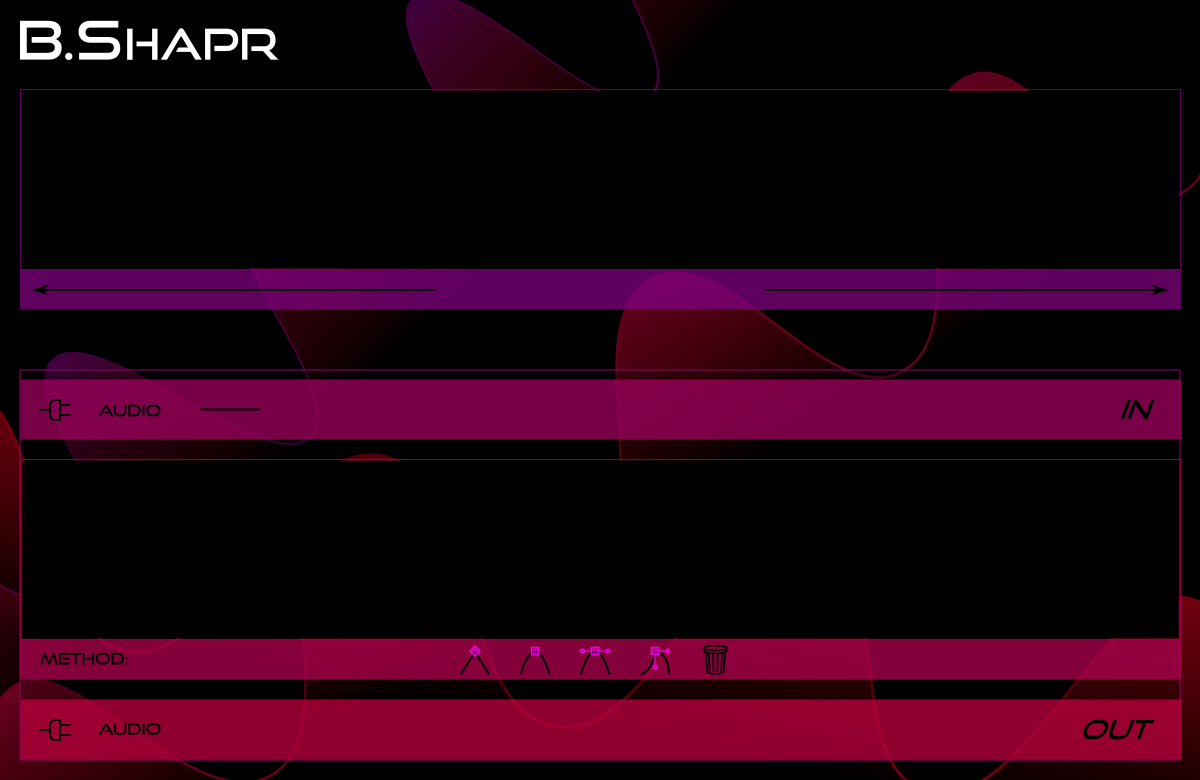
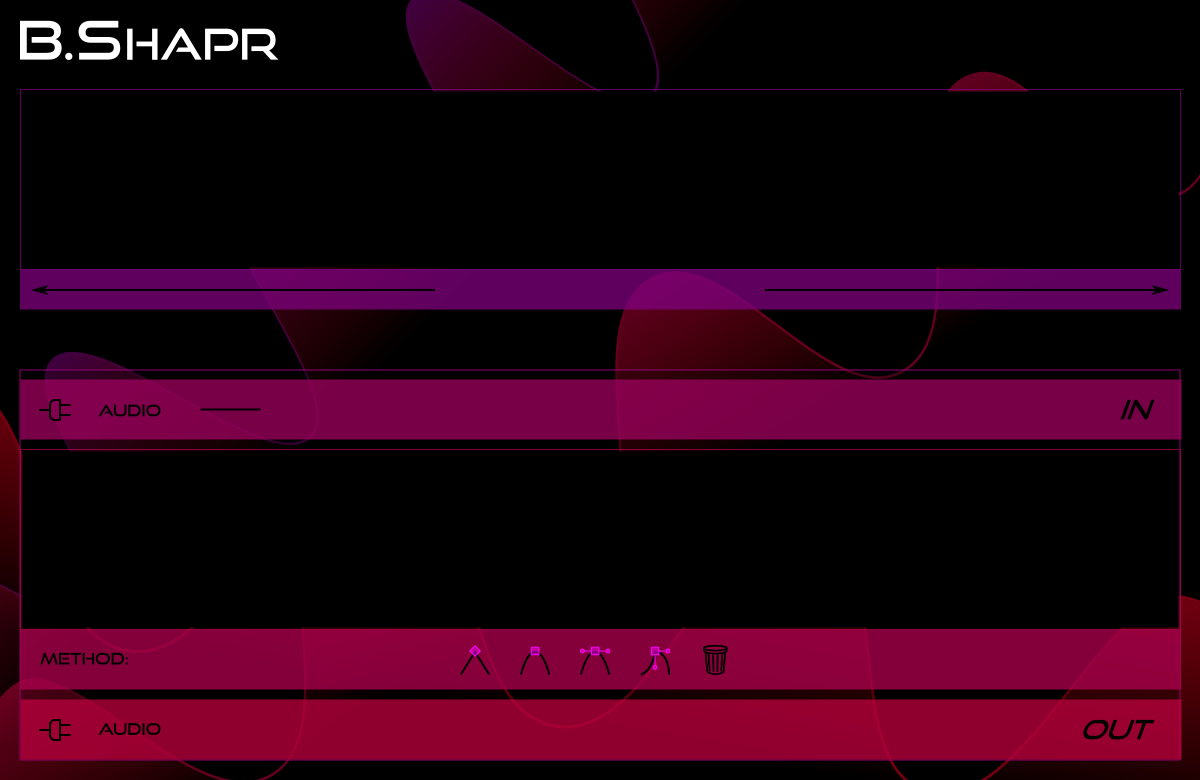
Dry / wet added
* Added a dry / wet control port for each shape
* Ports renumbered
* Dry / wet mixing implemented
* Background image changed to get space for an additional dial
* dry / wet dial added
* GUI widget positions harmonized
* Bugfix: Resize for small displays
* Readme updated

diff --git a/src/BShaprGUI.cpp b/src/BShaprGUI.cpp
@@ -50,7 +50,7 @@ BShaprGUI::BShaprGUI (const char *bundlePath, const LV2_Feature *const *features
 		}
 
 		shapeGui[i].inputSelect = SelectWidget (60, 20, 200 + i * 100, 40, "tool", 100, 40, 2 + i, 1);
-		shapeGui[i].inputAmpDial = BWidgets::DisplayDial (1000, 14, 50, 56, "dial", 1.0, -1.0, 1.0, 0, "%1.3f");
+		shapeGui[i].inputAmpDial = BWidgets::DisplayDial (920, 14, 50, 56, "dial", 1.0, -1.0, 1.0, 0, "%1.3f");
 		shapeGui[i].targetListBox = BWidgets::PopupListBox (120, 280, 180, 20, 0, -220, 180, 220, "menu",
 															{{0, "Level"},
 															 {5, "Gain"},
@@ -62,11 +62,13 @@ BShaprGUI::BShaprGUI (const char *bundlePath, const LV2_Feature *const *features
 														 	 {7, "High pass filter (log)"},
 														 	 {8, "Pitch"},
 														 	 {9, "Delay"}});
-		shapeGui[i].shapeWidget = ShapeWidget (4, 94, 1152, 172, "shape");
-		shapeGui[i].toolSelect = SelectWidget (437, 272, 276, 36, "tool", 36, 36, 5, 1);
+		shapeGui[i].shapeWidget = ShapeWidget (4, 84, 1152, 172, "shape");
+		shapeGui[i].toolSelect = SelectWidget (433, 268, 284, 44, "tool", 44, 44, 5, 1);
+		shapeGui[i].drywetLabel = BWidgets::Label (920, 304, 50, 16, "smlabel", "dry/wet");
+		shapeGui[i].drywetDial = BWidgets::Dial (920, 264, 50, 50, "dial", 1.0, 0.0, 1.0, 0);
 		shapeGui[i].shapeLabelIcon = BWidgets::ImageIcon (1000, 280, 160, 20, "widget", pluginPath + "Shape" + std::to_string (i + 1) + ".png");
 		shapeGui[i].outputSelect = SelectWidget (60, 340, 100, 40, "tool", 100, 40, 1, 1);
-		shapeGui[i].outputAmpDial = BWidgets::DisplayDial (1000, 334, 50, 56, "dial", 1.0, 0.0, 1.0, 0, "%1.3f");
+		shapeGui[i].outputAmpDial = BWidgets::DisplayDial (920, 334, 50, 56, "dial", 1.0, 0.0, 1.0, 0, "%1.3f");
 
 		shapeGui[i].shapeContainer.rename ("widget");
 		shapeGui[i].tabIcon.rename ("tab");
@@ -75,6 +77,8 @@ BShaprGUI::BShaprGUI (const char *bundlePath, const LV2_Feature *const *features
 		shapeGui[i].targetListBox.rename ("menu");
 		shapeGui[i].shapeWidget.rename ("shape");
 		shapeGui[i].toolSelect.rename ("tool");
+		shapeGui[i].drywetLabel.rename ("smlabel");
+		shapeGui[i].drywetDial.rename ("dial");
 		shapeGui[i].shapeLabelIcon.rename ("widget");
 		shapeGui[i].outputSelect.rename ("tool");
 		shapeGui[i].outputAmpDial.rename ("dial");
@@ -96,6 +100,7 @@ BShaprGUI::BShaprGUI (const char *bundlePath, const LV2_Feature *const *features
 		controllerWidgets[SHAPERS + i * SH_SIZE + SH_INPUT] = (BWidgets::ValueWidget*) &shapeGui[i].inputSelect;
 		controllerWidgets[SHAPERS + i * SH_SIZE + SH_INPUT_AMP] = (BWidgets::ValueWidget*) &shapeGui[i].inputAmpDial;
 		controllerWidgets[SHAPERS + i * SH_SIZE + SH_TARGET] = (BWidgets::ValueWidget*) &shapeGui[i].targetListBox;
+		controllerWidgets[SHAPERS + i * SH_SIZE + SH_DRY_WET] = (BWidgets::ValueWidget*) &shapeGui[i].drywetDial;
 		controllerWidgets[SHAPERS + i * SH_SIZE + SH_OUTPUT] = (BWidgets::ValueWidget*) &shapeGui[i].outputSelect;
 		controllerWidgets[SHAPERS + i * SH_SIZE + SH_OUTPUT_AMP] = (BWidgets::ValueWidget*) &shapeGui[i].outputAmpDial;
 	}
@@ -110,6 +115,7 @@ BShaprGUI::BShaprGUI (const char *bundlePath, const LV2_Feature *const *features
 		shapeGui[i].inputSelect.setCallbackFunction (BEvents::EventType::VALUE_CHANGED_EVENT, BShaprGUI::valueChangedCallback);
 		shapeGui[i].inputAmpDial.setCallbackFunction (BEvents::EventType::VALUE_CHANGED_EVENT, BShaprGUI::valueChangedCallback);
 		shapeGui[i].targetListBox.setCallbackFunction (BEvents::EventType::VALUE_CHANGED_EVENT, BShaprGUI::valueChangedCallback);
+		shapeGui[i].drywetDial.setCallbackFunction (BEvents::EventType::VALUE_CHANGED_EVENT, BShaprGUI::valueChangedCallback);
 		shapeGui[i].outputSelect.setCallbackFunction (BEvents::EventType::VALUE_CHANGED_EVENT, BShaprGUI::valueChangedCallback);
 		shapeGui[i].outputAmpDial.setCallbackFunction (BEvents::EventType::VALUE_CHANGED_EVENT, BShaprGUI::valueChangedCallback);
 		shapeGui[i].shapeWidget.setCallbackFunction (BEvents::EventType::VALUE_CHANGED_EVENT, BShaprGUI::shapeChangedCallback);
@@ -129,10 +135,9 @@ BShaprGUI::BShaprGUI (const char *bundlePath, const LV2_Feature *const *features
 		shapeGui[i].shapeWidget.setHigherLimit (methodLimits[0].max);
 		shapeGui[i].inputAmpDial.setScrollable (true);
 		shapeGui[i].inputAmpDial.setHardChangeable (false);
-		//shapeGui[i].inputAmpDial.hide ();
+		shapeGui[i].drywetDial.setHardChangeable (false);
 		shapeGui[i].outputAmpDial.setScrollable (true);
 		shapeGui[i].outputAmpDial.setHardChangeable (false);
-		//shapeGui[i].outputAmpDial.hide ();
 		if (i >= 1) shapeGui[i].shapeContainer.hide();
 	}
 	applyChildThemes ();
@@ -148,6 +153,8 @@ BShaprGUI::BShaprGUI (const char *bundlePath, const LV2_Feature *const *features
 		shapeGui[i].shapeContainer.add (shapeGui[i].inputSelect);
 		shapeGui[i].shapeContainer.add (shapeGui[i].inputAmpDial);
 		shapeGui[i].shapeContainer.add (shapeGui[i].targetListBox);
+		shapeGui[i].shapeContainer.add (shapeGui[i].drywetLabel);
+		shapeGui[i].shapeContainer.add (shapeGui[i].drywetDial);
 		shapeGui[i].shapeContainer.add (shapeGui[i].shapeWidget);
 		shapeGui[i].shapeContainer.add (shapeGui[i].toolSelect);
 		shapeGui[i].shapeContainer.add (shapeGui[i].shapeLabelIcon);
@@ -321,6 +328,7 @@ void BShaprGUI::resizeGUI()
 
 	// Resize Fonts
 	defaultFont.setFontSize (12 * sz);
+	smFont.setFontSize (10 * sz);
 	lfLabelFont.setFontSize (12 * sz);
 
 	// Resize widgets
@@ -343,17 +351,19 @@ void BShaprGUI::resizeGUI()
 
 		RESIZE (shapeGui[i].inputSelect, 60, 20, 200 + i * 100, 40, sz);
 		shapeGui[i].inputSelect.resizeSelection (100 * sz, 40 * sz);
-		RESIZE (shapeGui[i].inputAmpDial, 1000, 14, 50, 56, sz);
+		RESIZE (shapeGui[i].inputAmpDial, 920, 14, 50, 56, sz);
 		RESIZE (shapeGui[i].targetListBox, 120, 280, 180, 20, sz);
 		shapeGui[i].targetListBox.resizeListBox (180 * sz, 220 * sz);
 		shapeGui[i].targetListBox.moveListBox (0, -220 * sz);
-		RESIZE (shapeGui[i].shapeWidget, 4, 94, 1152, 172, sz);
-		RESIZE (shapeGui[i].toolSelect, 437, 272, 276, 36, sz);
-		shapeGui[i].toolSelect.resizeSelection (36 * sz, 36 * sz);
+		RESIZE (shapeGui[i].drywetLabel, 920, 304, 50, 16, sz);
+		RESIZE (shapeGui[i].drywetDial, 920, 264, 50, 50, sz);
+		RESIZE (shapeGui[i].shapeWidget, 4, 84, 1152, 172, sz);
+		RESIZE (shapeGui[i].toolSelect, 433, 268, 284, 44, sz);
+		shapeGui[i].toolSelect.resizeSelection (44 * sz, 44 * sz);
 		RESIZE (shapeGui[i].shapeLabelIcon, 1000, 280, 160, 20, sz);
 		RESIZE (shapeGui[i].outputSelect, 60, 340, 100, 40, sz);
 		shapeGui[i].outputSelect.resizeSelection (100 * sz, 40 * sz);
-		RESIZE (shapeGui[i].outputAmpDial, 1000, 334, 50, 56, sz);
+		RESIZE (shapeGui[i].outputAmpDial, 920, 334, 50, 56, sz);
 	}
 
 	// Update monitor, const std::string& name
@@ -382,6 +392,9 @@ void BShaprGUI::applyChildThemes ()
 		shapeGui[i].inputAmpDial.applyTheme (theme);
 		shapeGui[i].inputAmpDial.getDisplayLabel()->setTextColors (lbColors);
 		shapeGui[i].targetListBox.applyTheme (theme);
+		shapeGui[i].drywetLabel.applyTheme (theme);
+		shapeGui[i].drywetLabel.setTextColors (lbColors);
+		shapeGui[i].drywetDial.applyTheme (theme);
 		shapeGui[i].shapeWidget.applyTheme (theme);
 		shapeGui[i].toolSelect.applyTheme (theme);
 		shapeGui[i].shapeLabelIcon.applyTheme (theme);
@@ -868,10 +881,8 @@ LV2UI_Handle instantiate (const LV2UI_Descriptor *descriptor, const char *plugin
 	int screenHeight = getScreenHeight ();
 	if ((screenWidth < 1240) || (screenHeight < 800)) sz = 0.66;
 	if ((screenWidth < 840) || (screenHeight < 530)) sz = 0.50;
-	std::cerr << "BShapr_GUI.lv2 screen size " << screenWidth << " x " << screenHeight <<
-			". Set GUI size to " << 1200 * sz << " x " << 780 * sz << ".\n";
 
-	if (resize) resize->ui_resize (resize->handle, 1200, 780);
+	if (resize) resize->ui_resize (resize->handle, 1200 * sz, 780 * sz);
 
 	*widget = (LV2UI_Widget) puglGetNativeWindow (ui->getPuglView ());
 	ui->sendGuiOn();

diff --git a/src/BShaprGUI.hpp b/src/BShaprGUI.hpp
@@ -37,6 +37,8 @@
 #include "BWidgets/FocusWidget.hpp"
 #include "BWidgets/RangeWidget.hpp"
 #include "BWidgets/ImageIcon.hpp"
+#include "BWidgets/Label.hpp"
+#include "BWidgets/Dial.hpp"
 #include "BWidgets/DisplayDial.hpp"
 #include "BWidgets/PopupListBox.hpp"
 #include "ShapeWidget.hpp"
@@ -141,6 +143,8 @@ private:
 		BWidgets::DisplayDial inputAmpDial;
 		BWidgets::DisplayDial outputAmpDial;
 		BWidgets::PopupListBox targetListBox;
+		BWidgets::Label drywetLabel;
+		BWidgets::Dial drywetDial;
 		ShapeWidget shapeWidget;
 		SelectWidget toolSelect;
 		SelectWidget outputSelect;
@@ -190,9 +194,11 @@ private:
 	BStyles::Fill tabBg = BStyles::Fill (BColors::Color (0.5625, 0, 0.4375, 0.375));
 	BStyles::Fill activeTabBg = BStyles::Fill (BColors::Color (0.5625, 0, 0.4375, 0.75));
 	BStyles::Font defaultFont = BStyles::Font ("Sans", CAIRO_FONT_SLANT_NORMAL, CAIRO_FONT_WEIGHT_NORMAL, 12.0,
-										       BStyles::TEXT_ALIGN_CENTER, BStyles::TEXT_VALIGN_MIDDLE);
+										       									 BStyles::TEXT_ALIGN_CENTER, BStyles::TEXT_VALIGN_MIDDLE);
+ 	BStyles::Font smFont = BStyles::Font ("Sans", CAIRO_FONT_SLANT_NORMAL, CAIRO_FONT_WEIGHT_NORMAL, 10.0,
+ 										       									 BStyles::TEXT_ALIGN_CENTER, BStyles::TEXT_VALIGN_MIDDLE);
 	BStyles::Font lfLabelFont = BStyles::Font ("Sans", CAIRO_FONT_SLANT_NORMAL, CAIRO_FONT_WEIGHT_NORMAL, 12.0,
-											   BStyles::TEXT_ALIGN_LEFT, BStyles::TEXT_VALIGN_MIDDLE);
+											   										 BStyles::TEXT_ALIGN_LEFT, BStyles::TEXT_VALIGN_MIDDLE);
 	BStyles::StyleSet defaultStyles = {"default", {{"background", STYLEPTR (&BStyles::noFill)},
 												   {"border", STYLEPTR (&BStyles::noBorder)}}};
 	BStyles::StyleSet labelStyles = {"labels", 	  {{"background", STYLEPTR (&BStyles::noFill)},
@@ -203,50 +209,53 @@ private:
 	BStyles::Theme theme = BStyles::Theme ({
 		defaultStyles,
 		{"B.Shapr", 		{{"background", STYLEPTR (&BStyles::blackFill)},
-							 {"border", STYLEPTR (&BStyles::noBorder)}}},
+							 			 {"border", STYLEPTR (&BStyles::noBorder)}}},
 		{"widget", 			{{"uses", STYLEPTR (&defaultStyles)}}},
-		{"tab", 			{{"background", STYLEPTR (&tabBg)},
-							 {"border", STYLEPTR (&BStyles::noBorder)}}},
-		{"activetab", 		{{"background", STYLEPTR (&activeTabBg)},
-							 {"border", STYLEPTR (&BStyles::noBorder)}}},
-		{"tool", 			{{"uses", STYLEPTR (&defaultStyles)},
-							 {"bgcolors", STYLEPTR (&BColors::whites)}}},
+		{"tab", 				{{"background", STYLEPTR (&tabBg)},
+							 			 {"border", STYLEPTR (&BStyles::noBorder)}}},
+		{"activetab", 	{{"background", STYLEPTR (&activeTabBg)},
+							 			 {"border", STYLEPTR (&BStyles::noBorder)}}},
+		{"tool", 				{{"uses", STYLEPTR (&defaultStyles)},
+							 			 {"bgcolors", STYLEPTR (&BColors::whites)}}},
 		{"monitor", 		{{"background", STYLEPTR (&BStyles::blackFill)},
-							 {"border", STYLEPTR (&BStyles::noBorder)}}},
+							 			 {"border", STYLEPTR (&BStyles::noBorder)}}},
 		{"shape",	 		{{"background", STYLEPTR (&BStyles::blackFill)},
-							 {"border", STYLEPTR (&BStyles::noBorder)},
-							 {"fgcolors", STYLEPTR (&BColors::whites)},
-							 {"symbolcolors", STYLEPTR (&fgColors)},
-							 {"font", STYLEPTR (&lfLabelFont)},
-							 {"bgcolors", STYLEPTR (&bgColors)}}},
+							 		 {"border", STYLEPTR (&BStyles::noBorder)},
+							 	 	 {"fgcolors", STYLEPTR (&BColors::whites)},
+									 {"symbolcolors", STYLEPTR (&fgColors)},
+									 {"font", STYLEPTR (&lfLabelFont)},
+									 {"bgcolors", STYLEPTR (&bgColors)}}},
 		{"dial", 			{{"uses", STYLEPTR (&defaultStyles)},
-							 {"fgcolors", STYLEPTR (&fgColors)},
-							 {"bgcolors", STYLEPTR (&bgColors)},
-							 {"textcolors", STYLEPTR (&fgColors)},
-							 {"font", STYLEPTR (&defaultFont)}}},
-		{"label",	 		{{"uses", STYLEPTR (&labelStyles)}}},
-		{"select",	 		{{"uses", STYLEPTR (&defaultStyles)}}},
+									 {"fgcolors", STYLEPTR (&fgColors)},
+									 {"bgcolors", STYLEPTR (&bgColors)},
+									 {"textcolors", STYLEPTR (&fgColors)},
+									 {"font", STYLEPTR (&defaultFont)}}},
+		{"label", 		{{"uses", STYLEPTR (&labelStyles)}}},
+		{"smlabel",	 	{{"uses", STYLEPTR (&defaultStyles)},
+									 {"textcolors", STYLEPTR (&fgColors)},
+									 {"font", STYLEPTR (&smFont)}}},
+		{"select",	 	{{"uses", STYLEPTR (&defaultStyles)}}},
 		{"select/label",	{{"uses", STYLEPTR (&defaultStyles)},
-							 {"textcolors", STYLEPTR (&BColors::whites)},
-							 {"font", STYLEPTR (&defaultFont)}}},
+									 {"textcolors", STYLEPTR (&BColors::whites)},
+									 {"font", STYLEPTR (&defaultFont)}}},
 		{"select/click",	{{"uses", STYLEPTR (&defaultStyles)},
-							 {"bgcolors", STYLEPTR (&clickColors)}}},
+									 {"bgcolors", STYLEPTR (&clickColors)}}},
 		{"menu",	 		{{"border", STYLEPTR (&BStyles::greyBorder1pt)},
-							 {"background", STYLEPTR (&BStyles::grey20Fill)}}},
-		{"menu/item",	 	{{"uses", STYLEPTR (&defaultStyles)},
-							 {"textcolors", STYLEPTR (&BColors::whites)},
-							 {"font", STYLEPTR (&lfLabelFont)}}},
+									 {"background", STYLEPTR (&BStyles::grey20Fill)}}},
+		{"menu/item",	{{"uses", STYLEPTR (&defaultStyles)},
+									 {"textcolors", STYLEPTR (&BColors::whites)},
+									 {"font", STYLEPTR (&lfLabelFont)}}},
 		{"menu/button",	 	{{"border", STYLEPTR (&BStyles::greyBorder1pt)},
-							 {"background", STYLEPTR (&BStyles::grey20Fill)},
-							 {"bgcolors", STYLEPTR (&BColors::darks)}}},
+							 		 {"background", STYLEPTR (&BStyles::grey20Fill)},
+									 {"bgcolors", STYLEPTR (&BColors::darks)}}},
 		{"menu/listbox",	{{"border", STYLEPTR (&BStyles::greyBorder1pt)},
-							 {"background", STYLEPTR (&BStyles::grey20Fill)}}},
+									 {"background", STYLEPTR (&BStyles::grey20Fill)}}},
 		{"menu/listbox/item",	{{"uses", STYLEPTR (&defaultStyles)},
-							 {"textcolors", STYLEPTR (&BColors::whites)},
-							 {"font", STYLEPTR (&lfLabelFont)}}},
+									 {"textcolors", STYLEPTR (&BColors::whites)},
+									 {"font", STYLEPTR (&lfLabelFont)}}},
 		{"menu/listbox//button",	{{"border", STYLEPTR (&BStyles::greyBorder1pt)},
-							 {"background", STYLEPTR (&BStyles::grey20Fill)},
-							 {"bgcolors", STYLEPTR (&BColors::darks)}}}
+									 {"background", STYLEPTR (&BStyles::grey20Fill)},
+							 	 	 {"bgcolors", STYLEPTR (&BColors::darks)}}}
 	});
 };
 

diff --git a/src/BShapr.cpp b/src/BShapr.cpp
@@ -867,58 +867,56 @@ void BShapr::play (uint32_t start, uint32_t end)
 
 				// Get shaper value for the actual position
 				float iFactor = shapes[sh].getMapValue (pos);
+				float drywet = controllers[SHAPERS + sh * SH_SIZE + SH_DRY_WET];
+				float wet1 = 0;
+				float wet2 = 0;
 
 				// Apply shaper on target
 				switch (int (controllers[SHAPERS + sh * SH_SIZE + SH_TARGET]))
 				{
 					case BShaprTargetIndex::LEVEL:
-						audioLevel (input1, input2, &shapeOutput1[sh], &shapeOutput2[sh], iFactor);
+						audioLevel (input1, input2, &wet1, &wet2, iFactor);
 						break;
 
 					case BShaprTargetIndex::GAIN:
-						audioLevel (input1, input2, &shapeOutput1[sh], &shapeOutput2[sh],
-												pow (10, 0.05 * (LIM (iFactor, methodLimits[GAIN].min, methodLimits[GAIN].max))));
+						audioLevel (input1, input2, &wet1, &wet2, pow (10, 0.05 * (LIM (iFactor, methodLimits[GAIN].min, methodLimits[GAIN].max))));
 						break;
 
 					case BShaprTargetIndex::BALANCE:
-						stereoBalance (input1, input2, &shapeOutput1[sh], &shapeOutput2[sh], iFactor);
+						stereoBalance (input1, input2, &wet1, &wet2, iFactor);
 						break;
 
 					case BShaprTargetIndex::WIDTH:
-						stereoWidth (input1, input2, &shapeOutput1[sh], &shapeOutput2[sh], iFactor);
+						stereoWidth (input1, input2, &wet1, &wet2, iFactor);
 						break;
 
 					case BShaprTargetIndex::LOW_PASS:
-						lowPassFilter (input1, input2, &shapeOutput1[sh], &shapeOutput2[sh], iFactor, sh);
+						lowPassFilter (input1, input2, &wet1, &wet2, iFactor, sh);
 						break;
 
 					case BShaprTargetIndex::LOW_PASS_LOG:
-						lowPassFilter (input1, input2, &shapeOutput1[sh], &shapeOutput2[sh],
-													 pow (10, LIM (iFactor, methodLimits[LOW_PASS_LOG].min, methodLimits[LOW_PASS_LOG].max)), sh);
+						lowPassFilter (input1, input2, &wet1, &wet2, pow (10, LIM (iFactor, methodLimits[LOW_PASS_LOG].min, methodLimits[LOW_PASS_LOG].max)), sh);
 						break;
 
 					case BShaprTargetIndex::HIGH_PASS:
-						highPassFilter (input1, input2, &shapeOutput1[sh], &shapeOutput2[sh], iFactor, sh);
+						highPassFilter (input1, input2, &wet1, &wet2, iFactor, sh);
 						break;
 
 					case BShaprTargetIndex::HIGH_PASS_LOG:
-						highPassFilter (input1, input2, &shapeOutput1[sh], &shapeOutput2[sh],
-														pow (10, LIM (iFactor, methodLimits[HIGH_PASS_LOG].min, methodLimits[HIGH_PASS_LOG].max)), sh);
+						highPassFilter (input1, input2, &wet1, &wet2, pow (10, LIM (iFactor, methodLimits[HIGH_PASS_LOG].min, methodLimits[HIGH_PASS_LOG].max)), sh);
 						break;
 
 					case BShaprTargetIndex::PITCH:
-						pitch (input1, input2, &shapeOutput1[sh], &shapeOutput2[sh], iFactor, sh);
+						pitch (input1, input2, &wet1, &wet2, iFactor, sh);
 						break;
 
 					case BShaprTargetIndex::DELAY:
-						delay (input1, input2, &shapeOutput1[sh], &shapeOutput2[sh], iFactor, sh);
+						delay (input1, input2, &wet1, &wet2, iFactor, sh);
 						break;
-
-					default:
-						shapeOutput1[sh] = 0;
-						shapeOutput2[sh] = 0;
-
 				}
+
+				shapeOutput1[sh] = (1 - drywet) * input1 + drywet * wet1;
+				shapeOutput2[sh] = (1 - drywet) * input2 + drywet * wet2;
 
 				if (controllers[SHAPERS + sh * SH_SIZE + SH_OUTPUT] == BShaprOutputIndex::AUDIO_OUT)
 				{

diff --git a/src/BShapr.h b/src/BShapr.h
@@ -53,6 +53,7 @@ const Limit globalControllerLimits [SHAPERS]	= {{0, 2, 1},
 const Limit shapeControllerLimits [SH_SIZE]		= {{0, 6, 1},
 																								 {-1, 1, 0},
 																							 	 {0, MAXEFFECTS - 1, 1},
+																								 {0, 1, 0},
 																							 	 {0, 1, 1},
 																							 	 {0, 1, 0}};
 

diff --git a/src/ports.h b/src/ports.h
@@ -39,11 +39,12 @@ typedef enum
 	SH_INPUT				= 0,
 	SH_INPUT_AMP		= 1,
 	SH_TARGET				= 2,
-	SH_OUTPUT				= 3,
-	SH_OUTPUT_AMP		= 4,
-	SH_SIZE					= 5,
+	SH_DRY_WET			= 3,
+	SH_OUTPUT				= 4,
+	SH_OUTPUT_AMP		= 5,
+	SH_SIZE					= 6,
 
-	NR_CONTROLLERS	= 23
+	NR_CONTROLLERS	= 27
 } BShaprPortIndex;
 
 typedef enum

diff --git a/README.md b/README.md
@@ -76,10 +76,18 @@ or its handles.
 However, dragging the background results only in dragging the whole **display** of the envelope. Similarly,
 scrolling zooms the display in or out.
 
-### Target
+### Method
 
-Select a target effect for this shape. E.g., if you select balance, the input signal will be panned according
-to the shape envelope.
+Select a method that will be applied on the input signal by the use of the shape. You can choose between:
+
+* Level
+* Gain
+* Stereo balance
+* Stereo width
+* Low pass filter
+* High pass filter
+* Pitch shifter
+* Delay (experimental)
 
 ### Output
 
